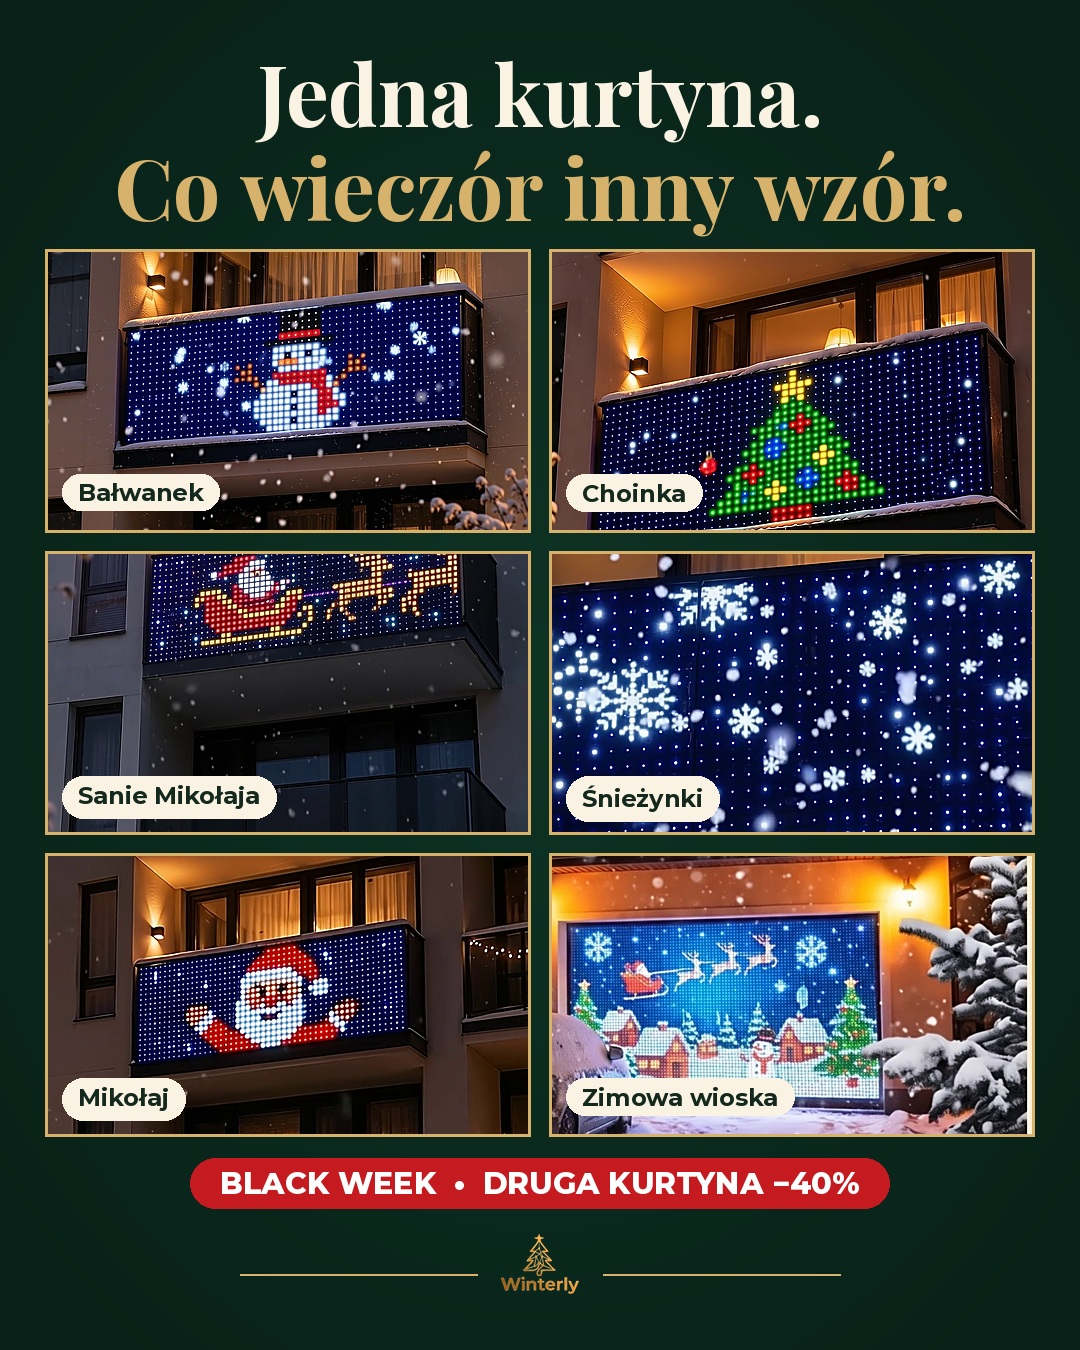
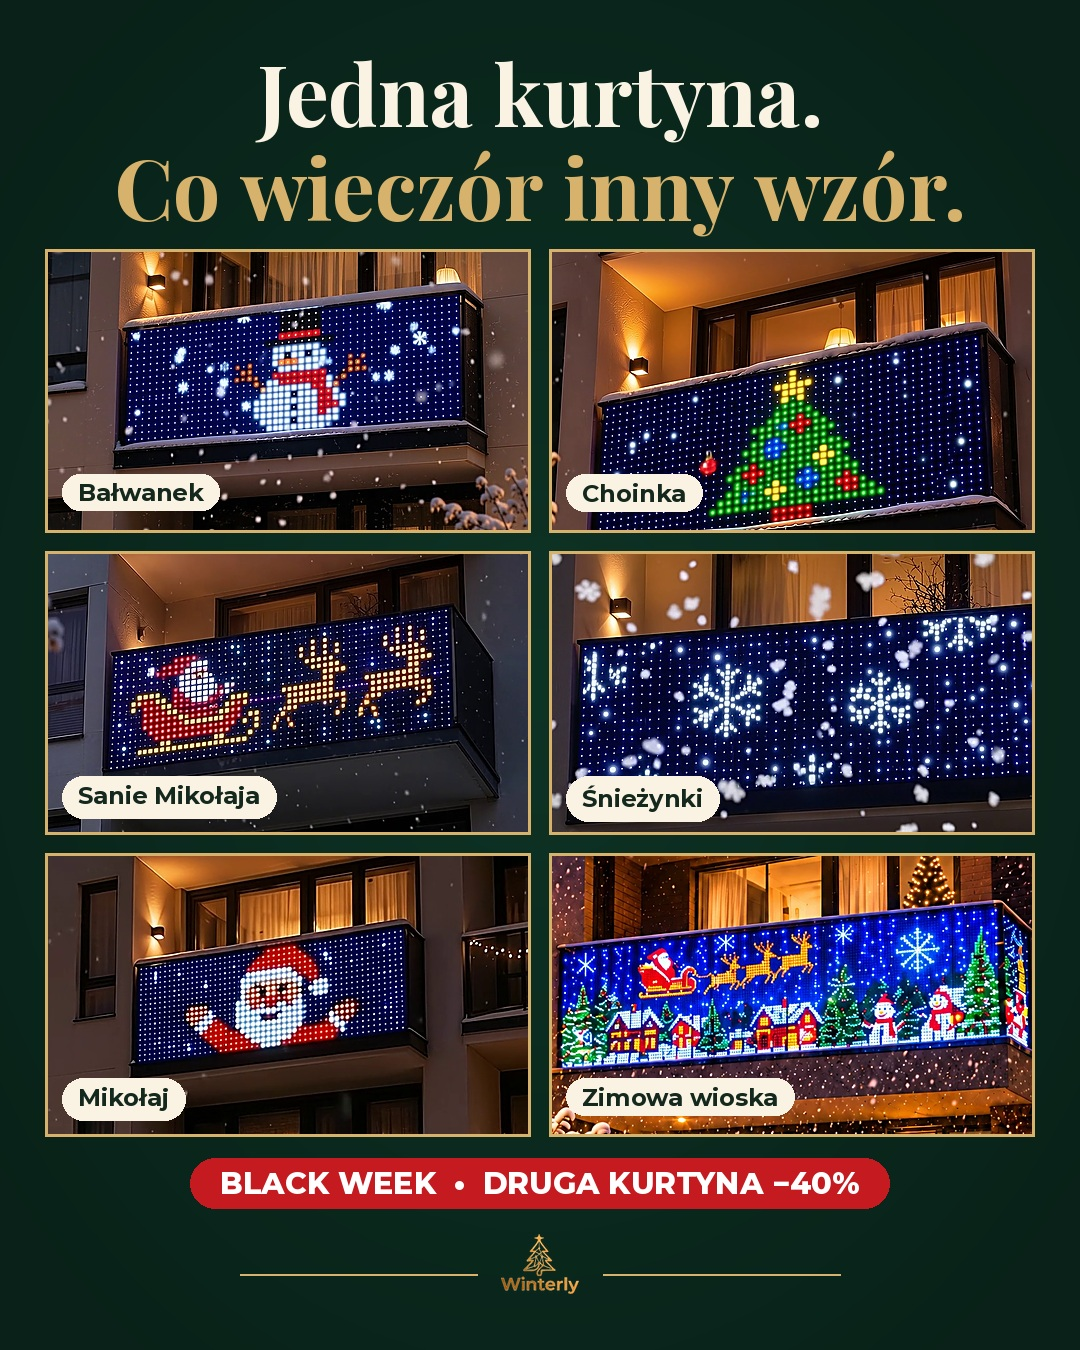
Siatka wzorów: same balkony, lepsze kadry sań i śnieżynek, wioska ze zwycięzcy
Claude-Session: https://claude.ai/code/session_01DeuvRZ8F7hfMieH2Xjfnm5

Changed region(s): [[0.0306, 0.4044, 0.9778, 0.84]]

diff --git a/handoff/video-tools/winterly/grafiki_siatka_komentarz_strzalki.py b/handoff/video-tools/winterly/grafiki_siatka_komentarz_strzalki.py
@@ -37,10 +37,10 @@ def save(im,name): im.convert('RGB').save(LA+name,quality=94); print('OK',name)
 dom=Image.open(DOM).convert('RGB')
 tiles=[(Image.open(LA+'p_balwan_6.0.png'),(0,640,1080,1330),'Bałwanek'),
        (Image.open(LA+'p_choinka_0.4.png'),(0,560,1080,1250),'Choinka'),
-       (Image.open(LA+'p_sanie_2.5.png'),(0,880,1080,1570),'Sanie Mikołaja'),
-       (Image.open(LA+'p_snieg_8.0.png'),(0,620,1080,1310),'Śnieżynki'),
+       (Image.open(LA+'p_sanie_0.4.png'),(150,690,1070,1224),'Sanie Mikołaja'),
+       (Image.open(LA+'sn_3.5.png'),(0,640,1080,1266),'Śnieżynki'),
        (Image.open(LA+'snow_0.5.png'),(250,620,930,1055),'Mikołaj'),
-       (dom,(860,790,1560,1235),'Zimowa wioska')]
+       (tpl,(418,330,1100,726),'Zimowa wioska')]
 g=Image.new('RGB',(W,H),GREEN)
 # subtle radial vignette
 yy,xx=np.mgrid[0:H,0:W]; v=1-0.35*np.clip(np.hypot((xx-W/2)/W,(yy-H/2)/H)*1.6,0,1)
